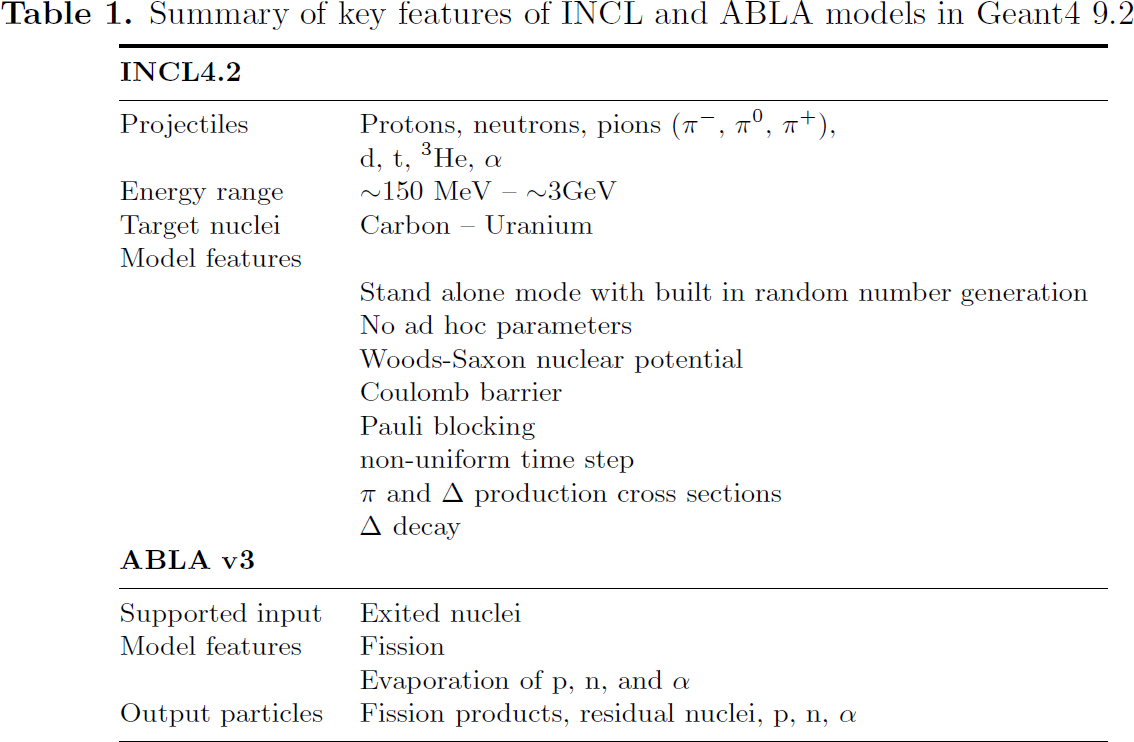
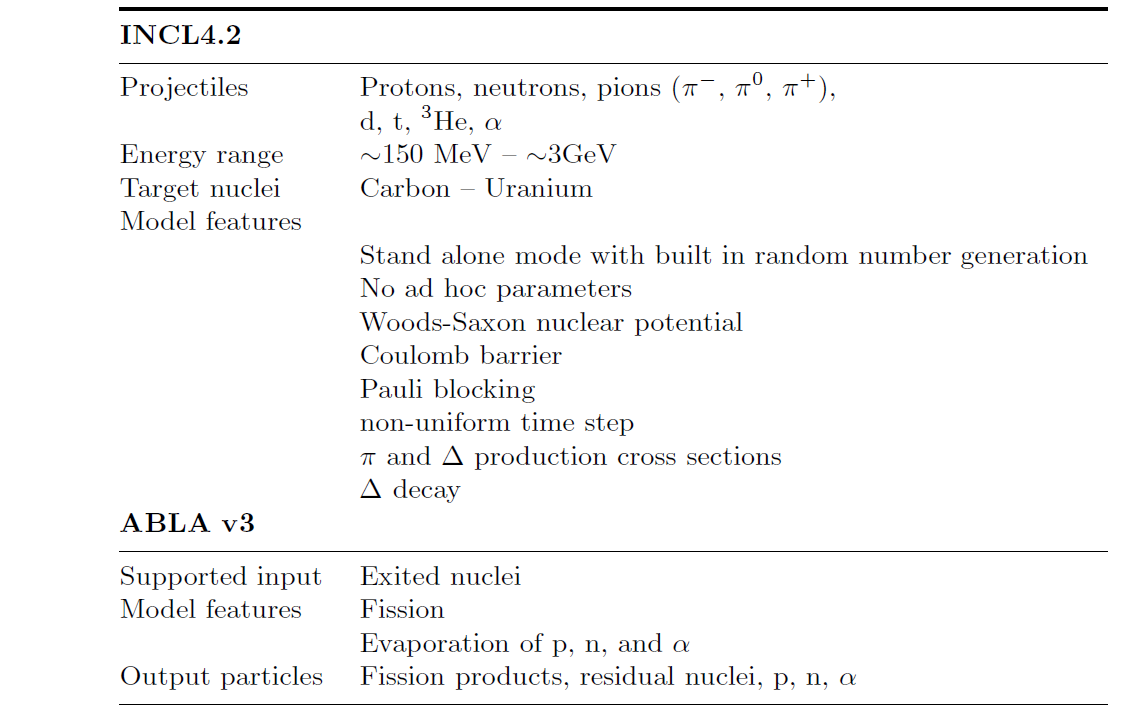
rest of checklist fixed

diff --git a/doc/thesis/bthesis.tex b/doc/thesis/bthesis.tex
@@ -123,7 +123,7 @@ label=listing:boundary}}
 \thesistitle{Simulating carbon beam fragmentation on water phantom with Geant4}{}
 
 %% Kandidaatintyön päivämäärä on sen esityspäivämäärä! 
-%%\date{22.1.2008}
+%\date{22.11.2009}
 
 %% Kandidaattiseminaarin vastuuopettaja
 \supervisor{Prof. Harri Ehtamo, Ph.D Veikko Karimäki}{}
@@ -140,6 +140,11 @@ label=listing:boundary}}
 \begin{abstractpage}[english]
 This thesis focuses on the simulation of carbon beams in a water phantom using Geant4 code. This study inspects the feasibility of Monte Carlo simulations for medical heavy-ion therapy. Geant4 is a multi-purpose physics simulation package developed at the European Organization for Nuclear Research (CERN). Geant4 gives the choice of multiple models suitable for the experiment, however, this paper focuses on the Binary model developed as a collaboration of scientists at CERN and other research institutions worldwide. Results are compared to experimental data made available at GSI Darmstadt by E.~Haettner in 2006. Our work is part of the International Atomic Energy Agency (IAEA) coordinated programme to compile and evaluate charged-particle nuclear data and related Monte Carlo codes for therapeutic applications. We have introduced extensions to the Geant4 Hadrontherapy-example. Furthermore we have modeled and estimated especially the magnitude and distribution of fragment build-up at the end of the Bragg-curve.
 \end{abstractpage}
+\begin{comment}
+\begin{abstractpage}[finnish]
+Detta kandidatarbete fokuserar på simulerandet av kolkärnor som skjuts in i en vattenfantom med hjälp av Geant4 simulationskoden. Denna studie utforskar möjligheten av tillämpningen av Monte Carlo koden för medicinska tungionbehandlingar. Geant4 är ett mångbrukligt fysiksimulationsprogram som är utvecklat vid europeiska organisationen för kärnforskning (CERN). Geant4 erbjuder flera olika kompatibla modeller för hadronisk fysik, för detta arbete har vi valt att bruka Binary modellen som är utvecklad av flera olika vetenskapliga aktörer i samspel med CERN. Resultaten från simulationerna jämförs med experimentell data från E. Haettners examensarbete vid GSI darmstadt år 2006. Detta arbete är del av den internationella atomenergiorganisationens (IAEA) program för att samla ihop experimentell kärnfysikdata och relaterade Monte Carlo koder och simulationer för medicinska ändamål. I arbetet har vi vidareutvecklat hadrontherapy-exempelkoden i Geant4. Med hjälp av denna kod har vi sedan kunnat modelera och estimera fördelningarna och magnituderna av de uppkomna fragmenten i i slutändan av den primära strålens räckvidd.
+\end{abstractpage}
+\end{comment}
 
 \mysection{Preface}
 
@@ -151,7 +156,7 @@ Secondly, Pekka Kaitaniemi of CEA Saclay was of great technical expertise and pr
 
 I also greatly appreciate all the time Emma Haettner took to clarify through personal correspondence the unclear details involved in the data sets received from GSI that were used in this paper.
 
-Furthermore, I would like to thank prof. Harri Ehtamo and docent Veikko Karimäki for supervising this thesis and prof. Risto Orava for introducing me to this interesting thesis project.
+Furthermore, I would like to thank prof. Harri Ehtamo and docent Veikko Karimäki for supervising this thesis. I also appreciate the initiative by prof. Risto Orava to introduce me to this interesting thesis project.
 \\
 \\
 \\
@@ -166,7 +171,6 @@ Furthermore, I would like to thank prof. Harri Ehtamo and docent Veikko Karimäk
  \includegraphics[width=0.4\textwidth]{images/logos.png}
  % logos.png: 7602291x7274607 pixel, 0dpi, infxinf cm, bb=
 \end{center}
-
 
 %% Pakotetaan uusi sivu varmuuden vuoksi, jotta 
 %% mahdollinen suomenkielinen ja englanninkielinen tiivistelmä
@@ -281,7 +285,7 @@ $I$  is the
 mean excitation potential of the target.
 
 
-However, as the speed of the particle has decreased to the order of magnitude of the Bohr velocity the nuclear charge $Z$ will no longer remain constant and has to be approximated by the effective charge, given by the Barkas formula $$Z_{eff} = Z(1-e^{-125 \beta Z}).$$
+However, as the speed of the particle has decreased to the order of magnitude of the Bohr velocity the nuclear charge $Z$ will no longer remain constant and has to be approximated by the effective charge, given by the Barkas formula \begin{equation}Z_{eff} = Z(1-e^{-125 \beta Z}).\end{equation}
 
 In this theoretical model the form of the Bragg-peak can be visualized as the $1/v^2$ relation increases the energy-loss as speed decreases. However, the effective charge will decrease at an exponential rate, thus, converging the Bragg-curve.
 
@@ -327,7 +331,7 @@ In this model the nucleons are described as gaussian wave packages, a nucleus is
 \end{equation}
 
 
-The Slater determinant is ignored. The 3-dimensional nucleus model in the binary cascade assumes a isotropic spherical nucleus. The nucleus density is described by a Woods-Saxon potential for heavy Ions, while lighter ions are described through a harmonic oscillator nuclear shell model. Almost all ions involved in the simulation in this paper are considered light by this definition. The nuclear density distributions are defined according to formula~\ref{binaryCascadePotential} inside the boundary radius $R$, outside the boundary radius nuclear density is zero.
+The Slater determinant is ignored. The 3-dimensional nucleus model in the binary cascade assumes a isotropic spherical nucleus. The nucleus density is described by a Woods-Saxon potential for heavy ions, while lighter ions are described through a harmonic oscillator nuclear shell model. Almost all ions involved in the simulation in this paper are considered light by this definition. The nuclear density distributions are defined according to formula~\ref{binaryCascadePotential} inside the boundary radius $R$, outside the boundary radius nuclear density is zero.
 
 \begin{equation}
 \rho(r) = 
@@ -338,9 +342,9 @@ The Slater determinant is ignored. The 3-dimensional nucleus model in the binary
 \label{binaryCascadePotential}
 \end{equation}
 
-Firstly, the participating nuclei are generated. The positions of the nucleons are randomly picked from these probability distributions. The Fermi-momentum for every nucleon is decided according to the Thomas-Fermi approximation $$p^{max}_F(r) = \hbar c [3 \pi^2 \rho(r)]^\frac{1}{3}.$$Secondly, $A-1$ nucleons are given a momentum between zero and the Fermi momentum. The last momentum is chosen so that all momentums even out. This is done by picking the negative sum of all other momentums. If the absolute value of the momentum happens to be above the Fermi momentum other momentums are repicked randomly until a satisfactory configuration is available.
+Firstly, the participating nuclei are generated. The positions of the nucleons are randomly picked from these probability distributions. The Fermi-momentum for every nucleon is decided according to the Thomas-Fermi approximation \begin{equation}p^{max}_F(r) = \hbar c [3 \pi^2 \rho(r)]^\frac{1}{3}.\end{equation}Secondly, $A-1$ nucleons are given a momentum between zero and the Fermi momentum. The last momentum is chosen so that all momentums even out. This is done by picking the negative sum of all other momentums. If the absolute value of the momentum happens to be above the Fermi momentum other momentums are repicked randomly until a satisfactory configuration is available.
 
-The Binary cascade transportation algorithm starts by picking randomly the impact parameter from the disc that is perpendicular to the distance vector inbetween the center of the disc and the middle of the nucleus. The closest distance $d^{min}_{i}$ defined by straight-line trajectories are calculated for each nucleon in the nucleus. The binary cascade then proceeds to calculate the interaction cross-sections $\sigma_i$ with all target nucleons based on the momenta of the nucleon in the nucleus, and the projectile momentum. Nucleons that have a smaller interaction radius than their distance $d^{min}_{i}$ are considered as plausible interaction targets. These targets are listed according to their individual time-of-flight by straight-line trajectory $t^{tof}_i$. The primary particle is then transported in the nuclear field with steplengths of the magnitude of the difference between the different times of flight $$t_{step} = t^{tof}_i - t^{tof}_{i+1}$$The equations of motion are solved in the nuclear field by means of Runge-Kutta integration. If no collision is found a new nucleus and impact parameter is picked.
+The Binary cascade transportation algorithm starts by picking randomly the impact parameter from the disc that is perpendicular to the distance vector inbetween the center of the disc and the middle of the nucleus. The closest distance $d^{min}_{i}$ defined by straight-line trajectories are calculated for each nucleon in the nucleus. The binary cascade then proceeds to calculate the interaction cross-sections $\sigma_i$ with all target nucleons based on the momenta of the nucleon in the nucleus, and the projectile momentum. Nucleons that have a smaller interaction radius than their distance $d^{min}_{i}$ are considered as plausible interaction targets. These targets are listed according to their individual time-of-flight by straight-line trajectory $t^{tof}_i$. The primary particle is then transported in the nuclear field with steplengths of the magnitude of the difference between the different times of flight \begin{equation}t_{step} = t^{tof}_i - t^{tof}_{i+1}\end{equation}The equations of motion are solved in the nuclear field by means of Runge-Kutta integration. If no collision is found a new nucleus and impact parameter is picked.
 %fixme, below could be better formulated
 Nucleon-nucleon interactions are based on experimental data and phenomenology. After collisions secondaries of the collision that are Pauli allowed, and above the Fermi momentum $p_F$, are traversed as new primaries. The Binary cascade does however not consider collisions inbetween participants.
 %humm, why do we care about this if they are below fermi mometum anyway? or do we mean the different primaries?
@@ -364,7 +368,7 @@ Where $\omega$ defines the relative contribution of each component and is a func
 
 From experimental data it has been found that good approximations for the functions $F_{sym}$ and $F_{asym}$ can be acquired with exponential fits on $A$ and $A_f$ as variables.
 
-At given mass of fragment $A_f$ the experimental data on the charge $Z_f$ was found to be well described by a Gaussian fit. The average kinetic energy is described through the empirical relation $$<T_{kin}>=0.1178Z^2/A^\frac{1}{3} + 5.8$$. However, the kinetic energy distribution of the asymmetrically scattered fission products is known to have a greater mean than that of the symmetrically distributed ones, which also is compensated.
+At given mass of fragment $A_f$ the experimental data on the charge $Z_f$ was found to be well described by a Gaussian fit. The average kinetic energy is described through the empirical relation \begin{equation}<T_{kin}>=0.1178Z^2/A^\frac{1}{3} + 5.8.\end{equation}However, the kinetic energy distribution of the asymmetrically scattered fission products is known to have a greater mean than that of the symmetrically distributed ones, which also is compensated.
 
 For further discussion of the Geant4 fission model the reader can consult the Geant4 physics reference manual~\cite[Chapter 31]{physicsManual}.
 
@@ -419,7 +423,7 @@ The simulation code is based around the hadrontherapy simulation produced by G.A
 5&Container back-window &Plexiglas&2~mm\\
 \end{tabular} 
 }
-\caption[Optional caption for list of figures]{(a) experimental setup for measurements made with the H1 detector. In this paper and the simulation-code the angle denoted by Haettner with $\theta$ is denoted $\phi$. (b) Geometry and elements in water phantom. (c) Materials and thicknesses along beam path. Images courtesy of E.~Haettner~\cite{ehaettner}.}
+\caption[Optional caption for list of figures]{(a) experimental setup for measurements made with the H1 detector. In this paper and the simulation-code the angle denoted by Haettner with $\theta$ is denoted $\phi$. (b) Geometry and elements in water phantom. (c) Materials and thicknesses along the beam path. Images courtesy of E.~Haettner~\cite{ehaettner}.}
 \label{fig:ShouldGiveTableAndFigure}
 \end{figure}
 
@@ -438,14 +442,14 @@ In the following parts of this paper recreating these measurements through simul
 
 \subsubsection{H1 measurements}
 
-Figure \ref{fig:haettnersetup3} shows the geometry Haettner used in angular and energy distribution measurements with the H1 detector. This ''H1 measurements`` setup was recreated in the simulation environment. The major differences being:
+Figure \ref{fig:haettnersetup3} shows the geometry Haettner used in angular and energy distribution measurements with the H1 detector. This H1 detector measurements setup was recreated in the simulation environment. The major differences being:
 \begin{itemize}
-\item The pipe in the water phantom was by inspection of photograph~\ref{fig:ehaettnerSetupPhotograph} deemed impossible to recreate in such a way that it could be assumed to recreate any backscattering effects or similar induced by the pipe. Thus a simple cube-shaped phantom was used.
+\item The pipe in the water phantom was by inspection of figure~\ref{fig:ehaettnerSetupPhotograph} deemed impossible to recreate in such a way that it could be assumed to recreate any backscattering effects or similar induced by the pipe. Thus a simple cube-shaped phantom was used.
 \item The water phantom had the cross-section of 50x60~cm. However, the beam exit-window had only an area of 32x8~cm. It was assumed that the detector was during angular experiments moved in the horizontal plane (the broader side of the window) and thus it was deemed a fair assumption to use a water phantom with a cross-section of 32x32~cm in the y-z plane. 
 \item The detector was a large scoring plane registering all incoming particles. The measurements were analyzed in ROOT. This allowed to minimize the amount of time-consuming simulation-runs by assuming symmetry.
 \end{itemize}
 
-Through personal correspondence with E.~Haettner it was confirmed that the indicated water-thicknesses in the data are the actual phantom thicknesses augmented by the water-equivalents of the other parts of the experiment. Data recorded through the simulation should be compared to the actual water-thicknesses because the effects of these other elements are simulated as well. During the July H1 measurements the water-equivalents were approximated to be 8mm. Thus, the water-thickness to be used in the simulation of a experimental datapoint is that depth subtracted by 8mm. %should be noted unknown constant in haettner's data of small magnitude. Also in February there was apparently more WE, but how much?
+Through personal correspondence with E.~Haettner it was confirmed that the indicated water-thicknesses in the data are the actual phantom thicknesses augmented by the water-equivalents of the other parts of the experiment. Data recorded through the simulation should be compared to the actual water-thicknesses because the effects of these other elements are simulated as well. During the July 2006 H1 measurements the water-equivalents were approximated to be 8~mm. Thus, the water-thickness to be used in the simulation of a experimental datapoint is that depth subtracted by 8~mm. %should be noted unknown constant in haettner's data of small magnitude. Also in February there was apparently more WE, but how much?
 
 \begin{figure}[!h] 
 \begin{center}
@@ -468,11 +472,11 @@ This means that data acquired through the simulation technique used should be co
 
 The beam energy is 400~MeV/u and is considered a pen-shaped beam. Haettner has performed measurements to further define the beam's characteristics.
 
-Firstly, Haettner evaluates the accuracy of the beam's energy to be $$\frac{\Delta E}{E}\approx5\times10^{-3}$$, meaning that the energy distribution of the beam is very narrow. This error was simulated with a gaussian distribution with the standard deviation 2~MeV/u for the 400~MeV/u beam.
+Firstly, Haettner evaluates the accuracy of the beam's energy to be \begin{equation}\frac{\Delta E}{E}\approx5\times10^{-3},\end{equation}meaning that the energy distribution of the beam is very narrow. This error was simulated with a gaussian distribution with the standard deviation 2~MeV/u for the 400~MeV/u beam.
 
-Secondly, Haettner further characterizes the beam by measuring it in air at three distances (0~m,1~m and 3~m). The incident beam was assumed to be parallel before leaving the vacuum tube window, thus assuming recorded enlargement of the beam's FWHM is explainable simply by the scattering from the exit-window and air. However, in this paper these results could not be verified and thus a very small deviation in the beam's angular distribution was introduced (chapter~\ref{beamShapeAnalysis}). The initial width of the beam was assumed normally distributed and thus the original 4~mm FWHM of the beam width was reproduced by picking beam $y$ and $z$ deviations from a normal distribution with $\sigma = 1.7$~mm according to the relation $$\mathrm{FWHM} =   2 \sqrt{2 \ln 2 } \; \sigma \approx 2.35482 \; \sigma$$
+Secondly, Haettner further characterizes the beam by measuring it in air at three distances (0~m,1~m and 3~m). The incident beam was assumed to be parallel before leaving the vacuum tube window, thus assuming recorded enlargement of the beam's FWHM is explainable simply by the scattering from the exit-window and air. However, in this paper these results could not be verified and thus a very small deviation in the beam's angular distribution was introduced (chapter~\ref{beamShapeAnalysis}). The initial width of the beam was assumed normally distributed and thus the original 4~mm FWHM of the beam width was reproduced by picking beam $y$ and $z$ deviations from a normal distribution with $\sigma = 1.7$~mm according to the relation \begin{equation}\mathrm{FWHM} =   2 \sqrt{2 \ln 2 } \; \sigma \approx 2.35482 \; \sigma.\end{equation}
 
-In experimental work~\cite{ehaettner} proceeds to analyze the scattering of the beam with variable water thicknesses, shown in figure~\ref{fig:haettner48}. However, even though the overall distribution produced in our results(Appendix~\ref{AppendixA}) was in line with experimental data the FWHM measure was not good for comparison due to the missing height of the forward peak.
+In experimental work~\cite{ehaettner} proceeds to analyze the scattering of the beam with variable water thicknesses, shown in figure~\ref{fig:haettner48}. However, even though the overall distribution produced in our results~(Appendix~\ref{AppendixA}) was in line with experimental data the FWHM measure was not good for comparison due to the missing height of the forward peak.
 
 %\subsection{Water tank}
 %The water phantom had in the experiment the cross-section of 50x60cm. However, the beam exit-window had %only an area of 32x8 cm, and the physical parameters of what covered other parts was unknown. Therefore it %was assumed that the detector was during angular experiments moved in the horizontal plane (the broader %side of the window) and thus it was deemed a fair assumption to use a water phantom with a cross-section of %32x32cm in the y-z plane. This regrettably makes it impossible to study backscattering and similar effects %with high precision.
@@ -492,15 +496,15 @@ In order to calculate the Bragg curve of the beam a water phantom of 35~cm was p
 \end{center}
 \end{figure}
 
-A detector distance of 298.5~cm is used as described in fig \ref{fig:haettnersetup3}. In the original experiment the H1 detector was moved and yields at different angles were recorded and plotted as a function of the angle at which the detector was seen. However, in order to increase effectiveness of the simulation circle annuluses were used as read-out areas at angles greater than zero. For the events recorded at 0 degree angle a square detection area was used. This approach is a slight approximation when it comes to small non-zero angles as the flux of the detection area may not be considered exactly similar to that of a square detector at that angle.
+A detector distance of 298.5~cm is used as described in figure~\ref{fig:haettnersetup3}. In the original experiment the H1 detector was moved and yields at different angles were recorded and plotted as a function of the angle at which the detector was seen. However, in order to increase effectiveness of the simulation circle annuluses were used as read-out areas at angles greater than zero. For the events recorded at 0 degree angle a square detection area was used. This approach is a slight approximation when it comes to small non-zero angles as the flux of the detection area may not be considered exactly similar to that of a square detector at that angle.
 
-The annulus width $a$ was determined so that it covered all of the solid angle that the tilted detector would cover while rotated around the beam axis. Thus the width of the annulus a is a function of $\phi$ according to the relation $$a(\phi) = \text{H1 sidelength} \times [\cos(\phi)+ \cot(\frac{\pi}{2} - \phi - \Delta\phi)\sin(\phi)],$$where $$\Delta\phi = \arctan(\frac{2 \times \text{scattering distance}}{\cos(\phi) \times \text{H1 sidelength}})$$ is the angle subtended by $r$ to $r_{min}$ and $r_{max}$ respectively.
+The annulus width $a$ was determined so that it covered all of the solid angle that the tilted detector would cover while rotated around the beam axis. Thus the width of the annulus a is a function of $\phi$ according to the relation \begin{equation}a(\phi) = \text{H1 sidelength} \times [\cos(\phi)+ \cot(\frac{\pi}{2} - \phi - \Delta\phi)\sin(\phi)],\end{equation}where \begin{equation}\Delta\phi = \arctan(\frac{2 \times \text{scattering distance}}{\cos(\phi) \times \text{H1 sidelength}})\end{equation} is the angle subtended by $r$ to $r_{min}$ and $r_{max}$ respectively.
 %fixme, that's got to be possible to simplify a bit.
 Results were divided by the amount of events and normalized to the solid angle of the detection area.
 
-The volume the solid angle of a square detector pointed towards the source at distance $s$ fills up is a pyramid. Thus, the formula $\Omega_{square} = 4 \arcsin(\frac{\text{(H1 sidelength)}^2}{4d^2+\text{(H1 sidelength)}^2})$ for the solid angle of a pyramid describes the solid angle subtended by the detector H1 at distance $d = \frac{\text{scattering distance}}{\cos(\phi)}$ from the middle of the water phantom.
+The volume the solid angle of a square detector pointed towards the source at distance $s$ fills up is a pyramid. Thus, the formula \begin{equation}\Omega_{square} = 4 \arcsin(\frac{\text{(H1 sidelength)}^2}{4d^2+\text{(H1 sidelength)}^2})\end{equation}for the solid angle of a pyramid describes the solid angle subtended by the detector H1 at distance \begin{equation}d = \frac{\text{scattering distance}}{\cos(\phi)}\end{equation}from the middle of the water phantom.
 
-The circle annuluses used as read-out areas subtend the solid angles $$\Omega_{annulus} = 2 \pi [\cos(\phi - \Delta\phi) - \cos(\phi + \Delta\phi)]$$. When $\phi \le \Delta\phi$ the read-out area reduces to a circle with the solid angle $$\Omega_{circle} = 2 \pi [1 - \cos(\phi + \Delta\phi)]$$.
+The circle annuluses used as read-out areas subtend the solid angles \begin{equation}\Omega_{annulus} = 2 \pi [\cos(\phi - \Delta\phi) - \cos(\phi + \Delta\phi)].\end{equation}When $\phi \le \Delta\phi$ the read-out area reduces to a circle with the solid angle \begin{equation}\Omega_{circle} = 2 \pi [1 - \cos(\phi + \Delta\phi)].\end{equation}
 
 %\begin{comment}
 %Koska lupasin koordinoida speksien määärittelyn.
@@ -542,7 +546,7 @@ This work focused much on the fragments generated in the water phantom. Thus, mu
 
 \subsection{Simulated carbon beam shape vs. measurements\label{beamShapeAnalysis}}
 \begin{center}
- \begin{table}[!h]
+\begin{table}[!h]
 \begin{tabular}{cccc} %fixme:
 \textbf{Distance} & \textbf{GSI data (H$\times$V)} & \textbf{Straight incident beam} & \textbf{Added scattering} \\
 0~m &4x4~mm& 3.9~mm & 3.9~mm\\
@@ -552,7 +556,7 @@ This work focused much on the fragments generated in the water phantom. Thus, mu
 \caption{\label{fig:beamFWHMtable} The beam FWHM as measured in experiment and reproduced in simulation and modified simulation.}
 \end{table}
 \end{center}
-The particle beam shape was set so that measured 0~cm distance scattering of 4mm FWHM was duplicated. When this scattering experiment was repeated for the two other provided measurement points of 1~m and 3~m results were not in line with those of experimental data. We assumed further scattering not accounted for in the beam must have taken place. To include the added scattering a gaussian shaped stochastical deviation was introduced in the beam's momentum vector. This error was symmetrical in $y$ and $z$ with the magnitude of $1\permil$ of the x-component. This error was empirically chosen. The results are summarized in table~\ref{fig:beamFWHMtable}.
+The particle beam shape was set so that measured 0~cm distance scattering of 4~mm FWHM was duplicated. When this scattering experiment was repeated for the two other provided measurement points of 1~m and 3~m results were not in line with those of experimental data. We assumed further scattering not accounted for in the beam must have taken place. To include the added scattering a gaussian shaped stochastical deviation was introduced in the beam's momentum vector. This error was symmetrical in $y$ and $z$ with the magnitude of $1\permil$ of the x-component. This error was empirically chosen. The results are summarized in table~\ref{fig:beamFWHMtable}.
 
 
 \subsection{Fragment yields (0$^\circ$-10$^\circ$)\label{yieldAnalysis}}
@@ -604,7 +608,7 @@ Data for the energy distributions can here only be compared to a copy directly f
 \label{fig:AEDistrib1}
 }
 \label{fig:AngularEnergyDistribution}
-\caption[Optional caption for list of figures]{Angular energy distributions with a 27.1~cm (27.9~cm WE) water phantom. Although the yields at small angles seem to be clearly smaller in simulations than in experiments the distribution of energies is a fair match.}
+\caption[Optional caption for list of figures]{Angular energy distributions with a 27.1~cm (27.9~cm water equivalent) water phantom. Although the yields at small angles seem to be clearly smaller in simulations than in experiments the distribution of energies is a fair match.}
 \end{figure}
 
 \subsection{Bragg curve}
@@ -644,9 +648,9 @@ Others Geant4 models for hadronic simulations were studied and it was concluded 
 
 \clearpage
 \addcontentsline{toc}{section}{Appendices}
-\section{\label{AppendixA}: Angular Distributions of charged fragments.\label{AngularDistributionAppendix}}
+\section{\label{AppendixA}: Angular Distributions of charged fragments\label{AngularDistributionAppendix}}
 
-The following graphs present the angular distributions of the scattered fragments as simulated using the Geant4 Binary cascade model. Data is collected for five different depths both ahead and beyond the Bragg-peak separately for all fragments.
+The following graphs present the angular distributions of the scattered fragments as simulated using the Geant4 Binary cascade model. Data is collected at five different depths both ahead and beyond the Bragg-peak separately for all fragments.
 
 %% Liitteiden kaavat, taulukot ja kuvat numeroidaan omana kokonaisuutenaan
 \renewcommand{\theequation}{A\arabic{equation}}
@@ -662,27 +666,27 @@ The following graphs present the angular distributions of the scattered fragment
 \begin{figure}[!h]
 \centering
 \subfigure[5.1~cm, Bad correlation. However, experimental data has large uncertainty due to carbon interference.]{
-\includegraphics[width=0.43\textwidth]{images/plots/angularDistributions/AD_59_1_N.png}
+\includegraphics[width=0.41\textwidth]{images/plots/angularDistributions/AD_59_1_N.png}
 \label{fig:AD_5.9_1_N}
 }
 \subfigure[15.1~cm]{
-\includegraphics[width=0.43\textwidth]{images/plots/angularDistributions/AD_159_1_N.png}
+\includegraphics[width=0.41\textwidth]{images/plots/angularDistributions/AD_159_1_N.png}
 \label{fig:AD_15.9_1_N}
 }
 \subfigure[27.1~cm]{
-\includegraphics[width=0.43\textwidth]{images/plots/angularDistributions/AD_279_1_N.png}
+\includegraphics[width=0.41\textwidth]{images/plots/angularDistributions/AD_279_1_N.png}
 \label{fig:AD_27.9_1_N}
 }
 \subfigure[30.4~cm]{
-\includegraphics[width=0.43\textwidth]{images/plots/angularDistributions/AD_312_1_N.png}
+\includegraphics[width=0.41\textwidth]{images/plots/angularDistributions/AD_312_1_N.png}
 \label{fig:D_31.2_1_N}
 }
 \subfigure[33.9~cm]{
-\includegraphics[width=0.43\textwidth]{images/plots/angularDistributions/AD_347_1_N.png}
+\includegraphics[width=0.41\textwidth]{images/plots/angularDistributions/AD_347_1_N.png}
 \label{fig:D_34.7_1_N}
 }
 \label{fig:subfigureExample}
-\caption[Optional caption for list of figures]{Angular distribution of hydrogen fragments from 400~MeV/u carbon beam.}
+\caption[Optional caption for list of figures]{Angular distribution of hydrogen fragments from 400~MeV/u carbon beam. Red triangles represent data from E. Haettner~\cite{ehaettner}, blue crosses the Monte Carlo simulation described in chapter~\ref{AngularDistributionText}.}
 \end{figure}
 \clearpage
 \subsection{Helium}
@@ -858,7 +862,7 @@ user change geometry setup
 \setcounter{section}{1}
 \section{\label{AppendixD}: Improving usability through messenger macro commands}
 
-The first action task taken in this work was to implement means to speed up the use of the analysis model by means of messenger macro commands that would let the user change geometry setup inbetween runs without needing to compile the entire simulation again. The documentation of this task also describes the nature of the work involved in many other more significant changes in the project.
+The first action task taken in this work was to implement means to speed up the use of the analysis model by means of messenger macro commands that would let the user change geometry setup inbetween runs without needing to compile the entire simulation again.
 
 Macro commands are interpreted by the code, and are sent to the simulation and Geant4 through a specific messenger class. The features implemented through macro commands were
 \begin{itemize}
@@ -874,8 +878,15 @@ So for example the user can give a command according to the following syntax.
 /analysis/setFileName <user-defined name>.root
 \end{verbatim}
 \normalsize
+While the thickness of the water phantom may be set by
+\scriptsize
+\begin{verbatim}
+/iaea/waterPhantomThickness <user defined thickness> cm
+\end{verbatim}
+\normalsize
 
-The implementation was done by creating an analysismessenger inheriting functionality from \textit{G4UImessenger}. An object of the type \textit{HadrontehrapyAnalysisMessenger} was created in the \textit{AnalysisManager}.
+
+The implementation was done by using Geant4 analysis messenger machanism which inherits functionality from G4UImessenger class functionality from \textit{G4UImessenger}. An object of the type \textit{HadrontehrapyAnalysisMessenger} was created in the \textit{AnalysisManager}.
 
 
 \scriptsize
@@ -892,11 +903,12 @@ class HadrontherapyAnalysisFileMessenger: public G4UImessenger
     HadrontherapyAnalysisManager* AnalysisManager;
 \end{verbatim}
 \normalsize
-\begin{figure}[h] 
+\begin{figure}[!h] 
 \begin{center}
-\includegraphics[width=0.3\textwidth]{images/setFileNameMessenger_1.png}  
-\includegraphics[width=0.7\textwidth]{images/setFileNameMessenger_2.png}  
-\caption{\label{fig:messengerUML} UML diagrams for messenger class}
+\includegraphics[width=0.5\textwidth]{images/setFileNameMessenger_1.png}  
+\\
+\includegraphics[width=1.0\textwidth]{images/setFileNameMessenger_2.png}  
+\caption{\label{fig:messengerUML} UML diagrams for one messenger class}
  
  \end{center}
  \end{figure}
@@ -916,7 +928,7 @@ class HadrontherapyAnalysisFileMessenger: public G4UImessenger
 %\section{Future work with alternative simulation models \label{appendixincltheory}}
 \section{\label{appendixincltheory}: Future work with alternative simulation models}
 
-INCL4 is a Monte Carlo type Intranuclear Cascade Model, whereas ABLA is the the complementing Monte Carlo evaporation/fission model. In practice this means INCL is used to determine what happends just after the the projectile particle hits the target nucleus, while ABLA is used to determine what nuclear process is caused through the following excitation of the target due to the collision event. It is notable that the time-frame for evaporation and fission events are orders of magnitude greater compared to the events modelled by INCL.
+INCL4 is a Monte Carlo intranuclear cascade model available in Geant4, whereas ABLA is the the complementing Monte Carlo evaporation/fission model. In practice this means INCL is used to determine what happends just after the the projectile particle hits the target nucleus, while ABLA is used to determine what nuclear process is caused through the following excitation of the target due to the collision event. It is notable that the time-frame for evaporation and fission events are orders of magnitude greater compared to the events modelled by INCL.
 
 \subsection{INCL}
 
@@ -940,7 +952,9 @@ If the energy of the bullet particle breaks the nucleus potential barrier and en
 
 The kinetics of the model are bound by the physical laws of conservation of baryon number, charge, energy, momentum and angular momentum and respect the Pauli blocking principle. Furthermore, pion-production is governed through the relation of $NN \rightleftharpoons N \Delta, \Delta \rightleftharpoons N\pi$ (with a stochastically determined mass for $\Delta$).
 
-The major free parameter of the INCL code is the stopping-time; the time before thermal equilibrium can be assumed and thus the process handed over to the evaporation and fission phase. The INCL code has chosen the stopping time as a suitable function of the target nucleus size so that $$t_{stop} = f_{stop}t_{0}(\frac{A_T}{208})^{0.16},$$ where $f_{stop} = 1.0$. The stopping-time of INCL4 is considerably longer than for many models where discrete potential barriers are defined for the nucleus.
+The major free parameter of the INCL code is the stopping-time; the time before thermal equilibrium can be assumed and thus the process handed over to the evaporation and fission phase. The INCL code has chosen the stopping time as a suitable function of the target nucleus size so that \begin{equation}t_{stop} = f_{stop}t_{0}(\frac{A_T}{208})^{0.16},\end{equation} where $f_{stop} = 1.0$. The stopping-time of INCL4 is considerably longer than for many models where discrete potential barriers are defined for the nucleus.
+
+Summary of key features of INCL and ABLA models in Geant4 9.2 are shown on table~\ref{fig:inclpotential}.
 
 A further discussion of the theoretical basis of the Liège INC model and INCL code is available in references~\cite{PhysRevC.66.044615,iia,incl42cascadeandabla}.
 
@@ -948,46 +962,44 @@ A further discussion of the theoretical basis of the Liège INC model and INCL c
 \begin{center}
 \includegraphics[width=0.6\textwidth]{images/inclPotential.png}  
 \caption{\label{fig:inclpotential} Schematic of the potential model used by the INCL-model.}
- 
- \end{center}
- \end{figure}
+\end{center}
+\end{figure}
 
+\begin{center}
+% use packages: array
+\begin{table}[!h]
+\begin{tabular}{l}
+\includegraphics[width=1\textwidth]{images/inclSummary.png}
+\end{tabular}
+\caption{\label{fig:inclpotential} Summary of key features of INCL and ABLA models in Geant4 9.2.}
+\end{table}
+\end{center}
 
 \subsection{ABLA}
 
 The ABLA code has been developed at the GSI facility in Darmstadt, Germany. Its principal developers being K-H.~Schmidt and A.~Kelic. It is a Monte Carlo code based on a data-set {\tt G4ABLADATA} distributed alongside the code. ABLA takes as input nucleus parameters, excitation energy, mass number, charge number and nucleus spin. It then calculates on the basis of this data the probabilities for different fission or evaporation events taking place according to statistical distributions obtained from experiments and phenomenology.
 
 ABLA comes with two different fission models SimFis3 and SimFis18. These models are based on the proven PROFI-model also developed at GSI Darmstadt. ABLA selects between competitive fission and evaporation processes as described in the flowchart~\ref{fig:ablatable}.
-
-\begin{figure}[h] 
-\begin{center}
-\includegraphics[width=1\textwidth]{images/inclSummary.png}  
-\caption{\label{fig:inclpotential}}
- 
- \end{center}
- \end{figure}
-
 %fixme, add another picture with data
 
 \begin{figure}[h] 
 \begin{center}
-\includegraphics[width=0.6\textwidth]{images/AblaTable.png}  
-\caption{\label{fig:ablatable} General flow of ABLA submodels.}
- 
+\includegraphics[width=0.8\textwidth]{images/AblaTable.png}
+\caption{\label{fig:ablatable}Flow diagram of ABLA submodels.}
  \end{center}
  \end{figure}
+
+\begin{comment}
 \begin{figure}[h] 
 \begin{center}
-\includegraphics[width=0.3\textwidth]{images/AblaHumps.png}  
+\includegraphics[width=0.3\textwidth]{images/AblaHumps.png}
 \caption{\label{fig:ablahumps} ABLA symmetric (solid line) and antisymmetric (dashed line) fission plots.}
- 
  \end{center}
  \end{figure}
+\end{comment}
 
 A further discussion of the theoretical basis of the ABLA code is available in references~\cite{ablatalk,iia}.
 %fixme add another ABLAsource
-
-
 
 \end{document}
 
